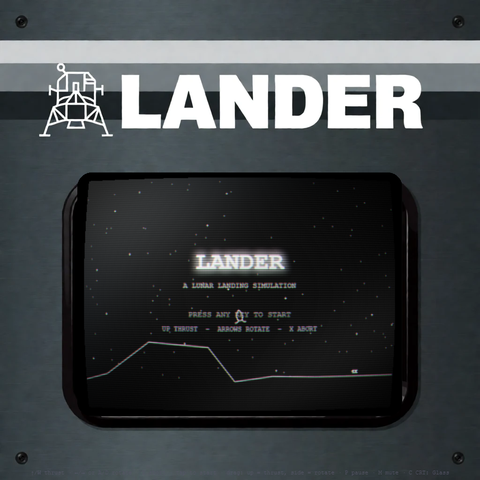
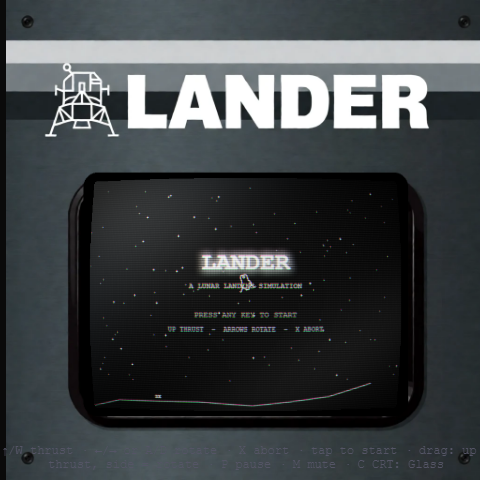
Redraw ship as Apollo-LM-style lander: boxy cabin + descent stage, splayed legs with foot pads, engine bell (straight lines only). Regenerate preview card.

diff --git a/index.html b/index.html
@@ -110,7 +110,7 @@ const FUEL_START = 750;        // arcade default
 const BURN_THRUST = 30;        // fuel / s while main engine on
 const BURN_ROT = 4;            // fuel / s while rotating
 const ABORT_COST = 120;        // arcade: 120..180
-const LEG = 11;                // center -> feet, world units
+const LEG = 13;                // center -> feet, world units
 const MAX_SPEED = 260;
 const ZOOM_FAR = 1.0, ZOOM_NEAR = 2.0;
 const ZOOM_IN_ALT = 380;       // altitude below this -> close-up
@@ -481,28 +481,43 @@ function drawLander(sx, sy) {
   ctx.strokeStyle = "#fff";
   ctx.lineWidth = 1 / k; // 1 screen pixel, vector-style
   ctx.beginPath();
-  // Angular body (straight lines only)
-  ctx.moveTo(0, -11);    // nose
-  ctx.lineTo(5, -5);
-  ctx.lineTo(5, 3);
-  ctx.lineTo(3, 8);
-  ctx.lineTo(-3, 8);
-  ctx.lineTo(-5, 3);
-  ctx.lineTo(-5, -5);
+  // Apollo-LM-style lander, straight lines only:
+  // boxy cabin (ascent stage) on a boxy descent stage, engine bell below.
+  // Square silhouette like the LM, not a tapered rocket.
+  ctx.moveTo(-4, -14);   // flat top
+  ctx.lineTo(4, -14);
+  ctx.lineTo(6, -11);    // chamfered cabin corner
+  ctx.lineTo(6, -2);     // cabin side (vertical)
+  ctx.lineTo(9, 2);      // short flare to descent stage
+  ctx.lineTo(9, 8);      // descent stage side (vertical)
+  ctx.lineTo(3, 10);
+  ctx.lineTo(3, LEG);    // engine bell
+  ctx.lineTo(-3, LEG);
+  ctx.lineTo(-3, 10);
+  ctx.lineTo(-9, 8);
+  ctx.lineTo(-9, 2);
+  ctx.lineTo(-6, -2);
+  ctx.lineTo(-6, -11);
   ctx.closePath();
   ctx.stroke();
-  // Legs
+  // Window
   ctx.beginPath();
-  ctx.moveTo(3, 8);  ctx.lineTo(7, LEG);  ctx.lineTo(10, LEG);
-  ctx.moveTo(-3, 8); ctx.lineTo(-7, LEG); ctx.lineTo(-10, LEG);
+  ctx.moveTo(-1.5, -12); ctx.lineTo(1.5, -12);
+  ctx.lineTo(1.5, -9);   ctx.lineTo(-1.5, -9);
+  ctx.closePath();
   ctx.stroke();
-  // Engine flame (straight flickering lines)
+  // Splayed legs with foot pads
+  ctx.beginPath();
+  ctx.moveTo(6, 3);  ctx.lineTo(12, LEG); ctx.lineTo(15, LEG);
+  ctx.moveTo(-6, 3); ctx.lineTo(-12, LEG); ctx.lineTo(-15, LEG);
+  ctx.stroke();
+  // Engine flame (straight flickering lines from the bell)
   if (thrusting && (state === "play" || state === "attract")) {
-    const f = 13 + Math.random() * 7;
+    const f = LEG + 4 + Math.random() * 6;
     ctx.beginPath();
-    ctx.moveTo(0, 8);  ctx.lineTo(0, f);
-    ctx.moveTo(2, 8);  ctx.lineTo(3, f - 3);
-    ctx.moveTo(-2, 8); ctx.lineTo(-3, f - 3);
+    ctx.moveTo(0, LEG);  ctx.lineTo(0, f);
+    ctx.moveTo(2, LEG - 1);  ctx.lineTo(3, f - 4);
+    ctx.moveTo(-2, LEG - 1); ctx.lineTo(-3, f - 4);
     ctx.stroke();
   }
   ctx.restore();
